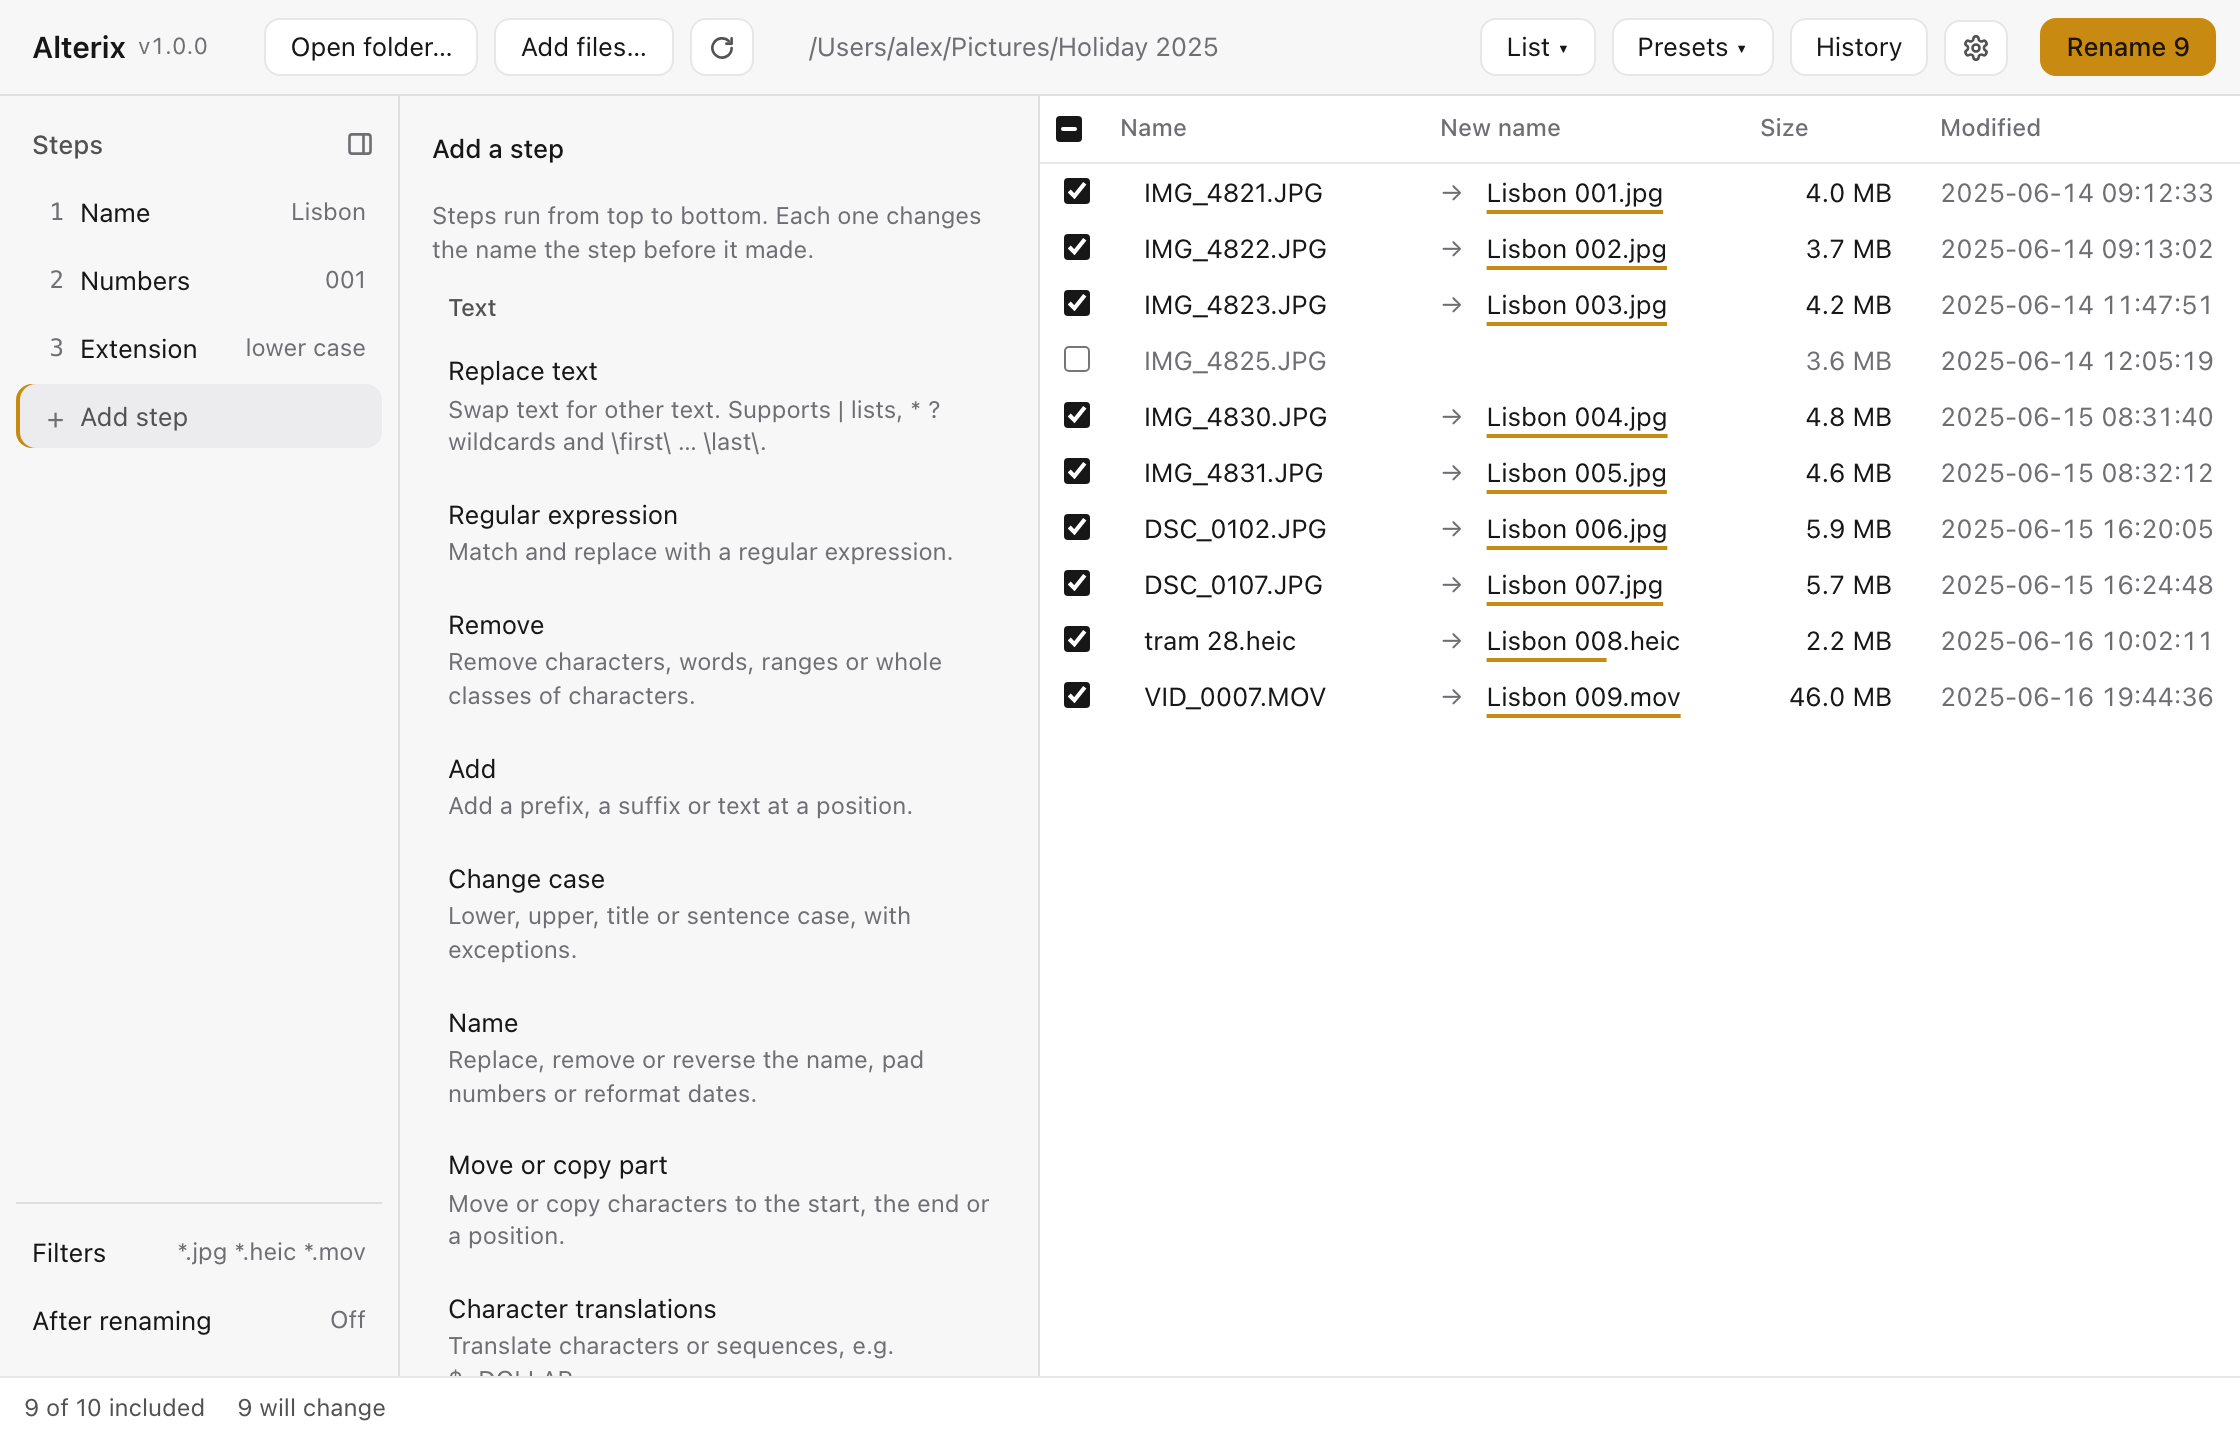
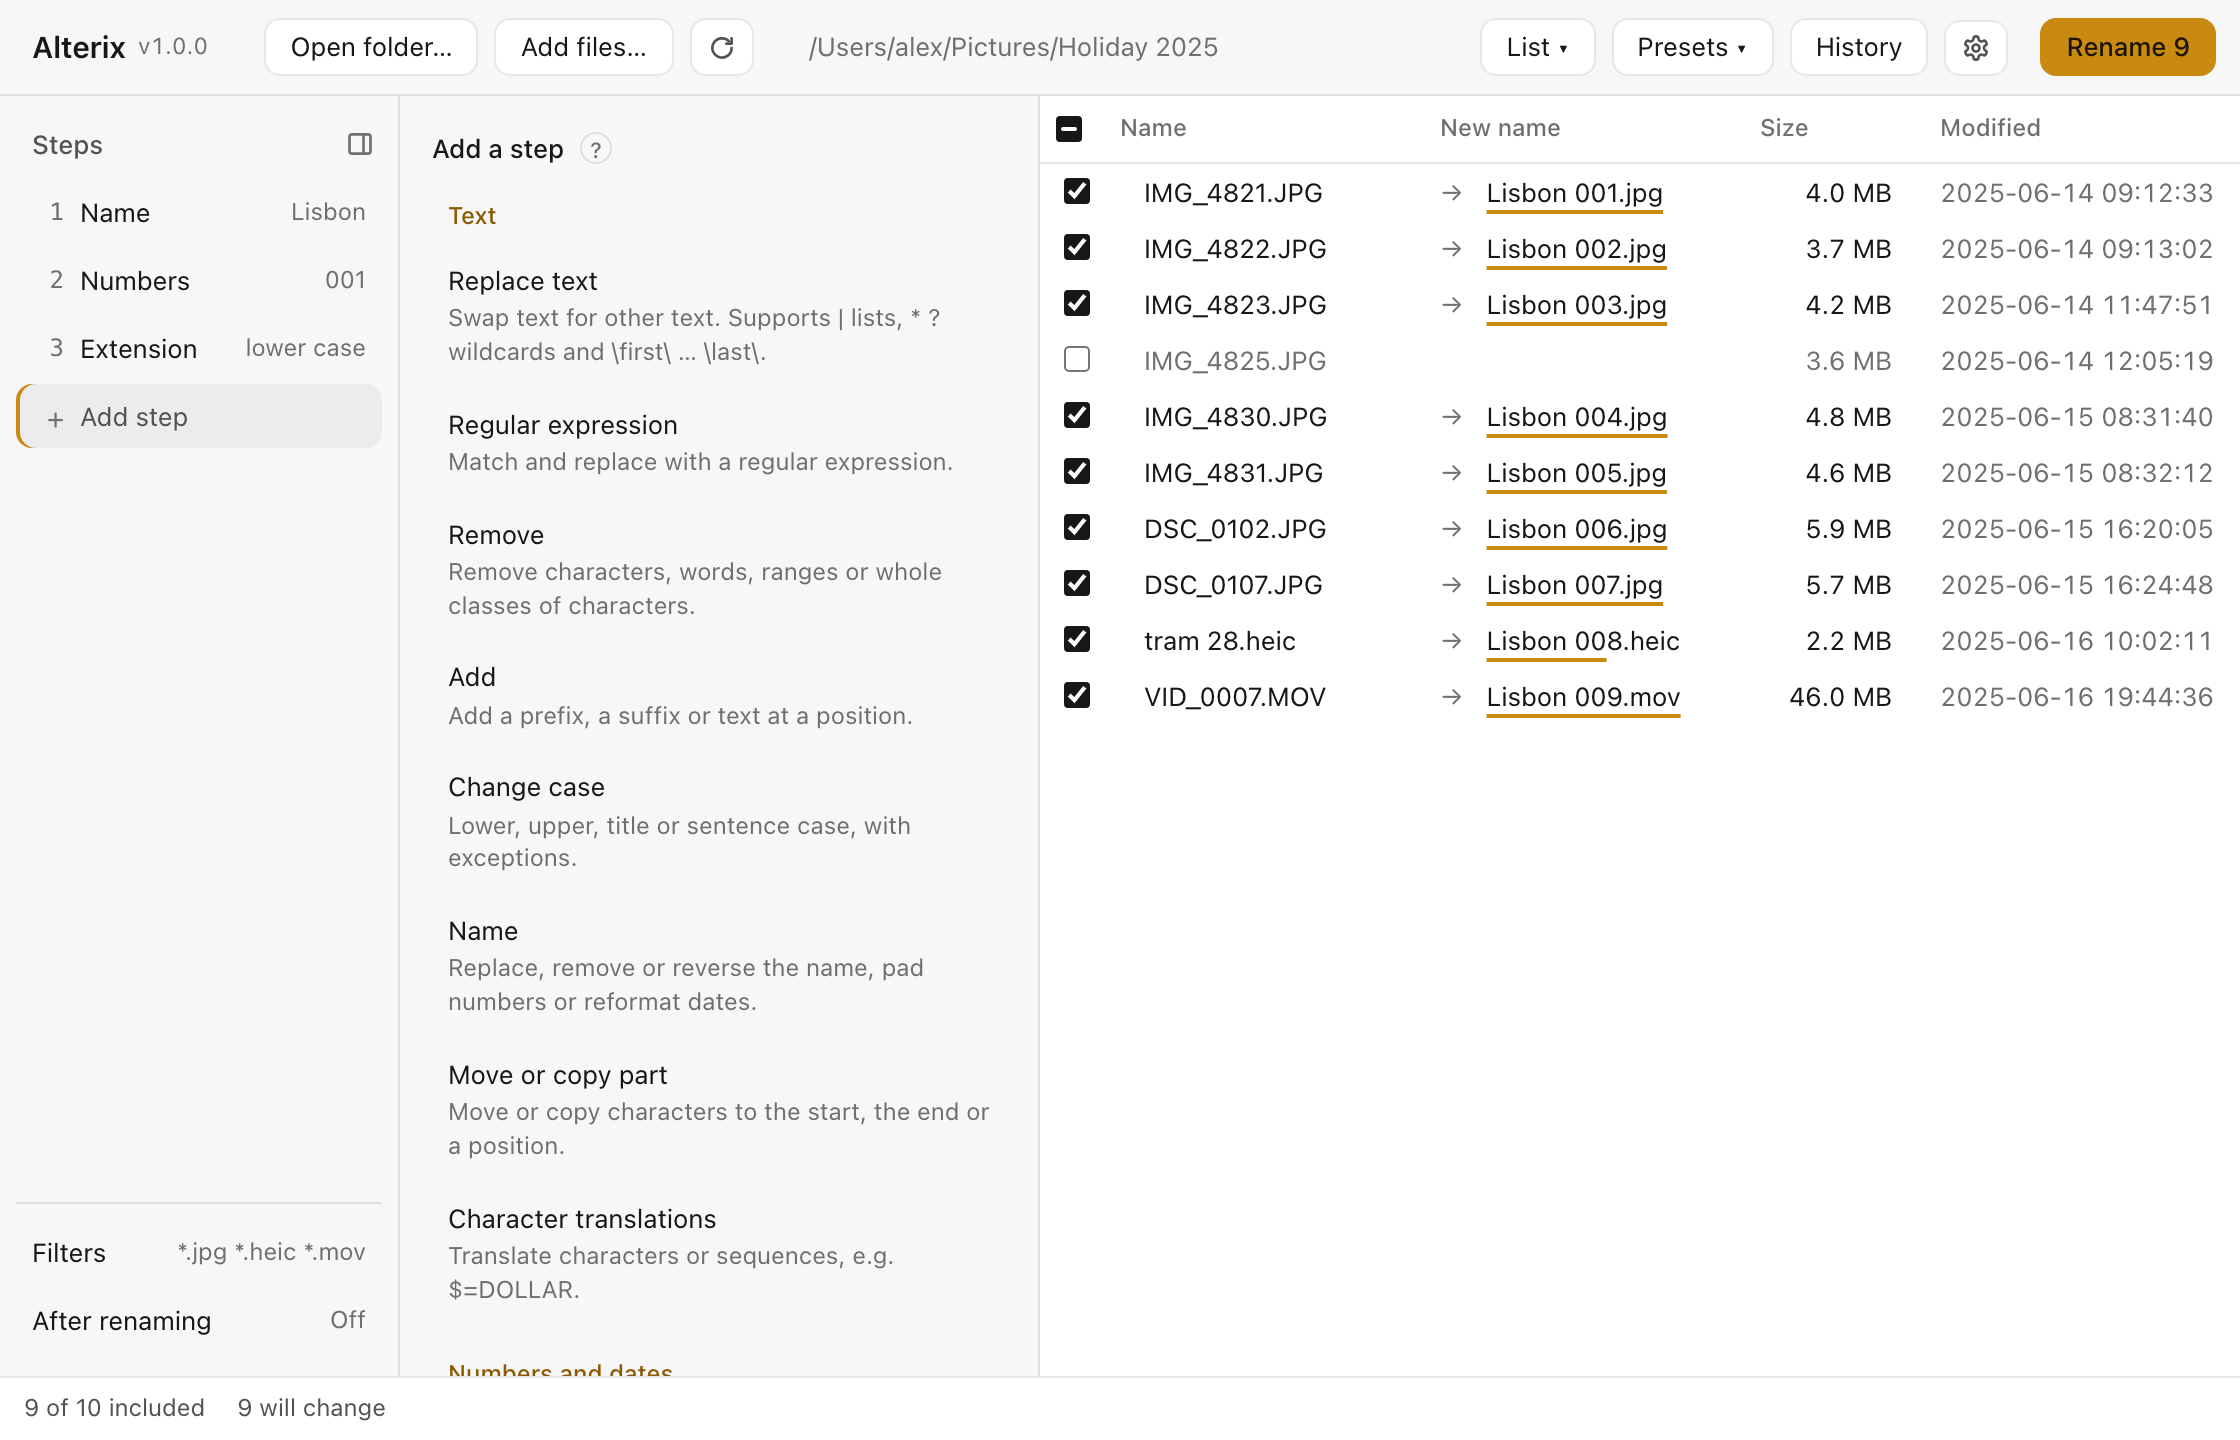
Put remove on each step's row; tidy Add a step
- Each step in the list has its own remove button, shown on hover,
  keyboard focus and the selected step. The editor header keeps On and
  Duplicate only.
- The Add a step explanation moves into a ? tooltip.
- Step categories in Add a step are amber so the groups stand out.
- README screenshots retaken.

Changed region(s): [[0.1875, 0.5312, 0.4375, 0.9688], [0.1875, 0.125, 0.4375, 0.5]]

diff --git a/src/lib/Pipeline.svelte b/src/lib/Pipeline.svelte
@@ -175,6 +175,14 @@
             {step.enabled ? stepSummary(step.rule) : "Off"}
           </span>
         </button>
+        <button
+          class="icon rm"
+          title="Remove this step"
+          aria-label="Remove step {i + 1}, {RULE_BY_KIND[step.rule.kind].label}"
+          onclick={() => remove(i)}
+        >
+          <Icon name="close" />
+        </button>
       </li>
     {/each}
     {#if dragFrom !== null}
@@ -224,12 +232,23 @@
   <section class="editor" aria-label="Step editor">
     {#if pick === "add"}
       <div class="head">
-        <h2>Add a step</h2>
+        <h2 class="with-tip">
+          Add a step
+          <span class="tip">
+            <button
+              class="tip-btn"
+              aria-label="How steps work"
+              aria-describedby="steps-tip"
+            >
+              ?
+            </button>
+            <span class="tip-text" id="steps-tip" role="tooltip">
+              Steps run from top to bottom. Each one changes the name the step
+              before it made.
+            </span>
+          </span>
+        </h2>
       </div>
-      <p class="hint">
-        Steps run from top to bottom. Each one changes the name the step before
-        it made.
-      </p>
       <div class="catalogue">
         {#each groups as g (g)}
           <h3>{g}</h3>
@@ -354,7 +373,6 @@
         <StepCard
           bind:step={app.steps[pickedIndex]}
           index={pickedIndex}
-          onremove={() => remove(pickedIndex)}
           onduplicate={() => duplicate(pickedIndex)}
         />
       {/key}
@@ -410,8 +428,26 @@
     gap: 2px;
   }
   .slot {
+    position: relative;
     border-top: 2px solid transparent;
     margin-top: -2px;
+  }
+  /* Remove sits on the row: shown on hover, keyboard focus and the selected step. */
+  .rm {
+    position: absolute;
+    top: 4px;
+    right: 4px;
+    opacity: 0;
+  }
+  .slot:hover .rm,
+  .slot:focus-within .rm,
+  .item.on + .rm {
+    opacity: 1;
+  }
+  .slot:hover .item,
+  .slot:focus-within .item,
+  .slot .item.on {
+    padding-right: 32px;
   }
   .slot.over,
   .endzone.over {
@@ -499,13 +535,62 @@
     font-size: 12px;
     color: var(--muted);
   }
+  .with-tip {
+    display: flex;
+    align-items: center;
+    gap: 8px;
+  }
+  .tip {
+    position: relative;
+    display: inline-flex;
+  }
+  .tip-btn {
+    display: grid;
+    place-items: center;
+    width: 16px;
+    height: 16px;
+    min-height: 0;
+    padding: 0;
+    border-radius: 50%;
+    font-size: 11px;
+    line-height: 1;
+    color: var(--muted);
+    background: transparent;
+  }
+  .tip-btn:hover {
+    color: var(--text);
+  }
+  .tip-text {
+    position: absolute;
+    top: calc(100% + 8px);
+    left: -8px;
+    z-index: 20;
+    width: 240px;
+    padding: 8px 12px;
+    border: 1px solid var(--line);
+    border-radius: 8px;
+    background: var(--surface);
+    box-shadow: var(--shadow);
+    font-size: 12px;
+    font-weight: 400;
+    color: var(--text-2);
+    opacity: 0;
+    visibility: hidden;
+    transition: opacity 160ms cubic-bezier(0.22, 1, 0.36, 1);
+  }
+  .tip:hover .tip-text,
+  .tip:focus-within .tip-text {
+    opacity: 1;
+    visibility: visible;
+  }
   .catalogue {
     display: flex;
     flex-direction: column;
     gap: 2px;
   }
   .catalogue h3 {
-    margin: 12px 0 4px 8px;
+    margin: 16px 0 4px 8px;
+    color: var(--accent-text);
   }
   .catalogue h3:first-child {
     margin-top: 0;

diff --git a/src/lib/StepCard.svelte b/src/lib/StepCard.svelte
@@ -1,5 +1,5 @@
-<!-- The editor for one step, drawn from its catalogue entry: on/off, duplicate, remove
-     and its fields. -->
+<!-- The editor for one step, drawn from its catalogue entry: on/off, duplicate and its
+     fields. Remove is on the step's row in the step list. -->
 <script lang="ts">
   import { invoke } from "@tauri-apps/api/core";
   import { open } from "@tauri-apps/plugin-dialog";
@@ -19,13 +19,11 @@
     step = $bindable(),
     index,
     problem = null,
-    onremove,
     onduplicate,
   }: {
     step: Step;
     index: number;
     problem?: string | null;
-    onremove: () => void;
     onduplicate: () => void;
   } = $props();
 
@@ -191,14 +189,6 @@
       onclick={onduplicate}
     >
       <Icon name="duplicate" />
-    </button>
-    <button
-      class="icon"
-      title="Remove"
-      aria-label="Remove step"
-      onclick={onremove}
-    >
-      <Icon name="close" />
     </button>
   </header>
   <p class="about">{def.summary}</p>
